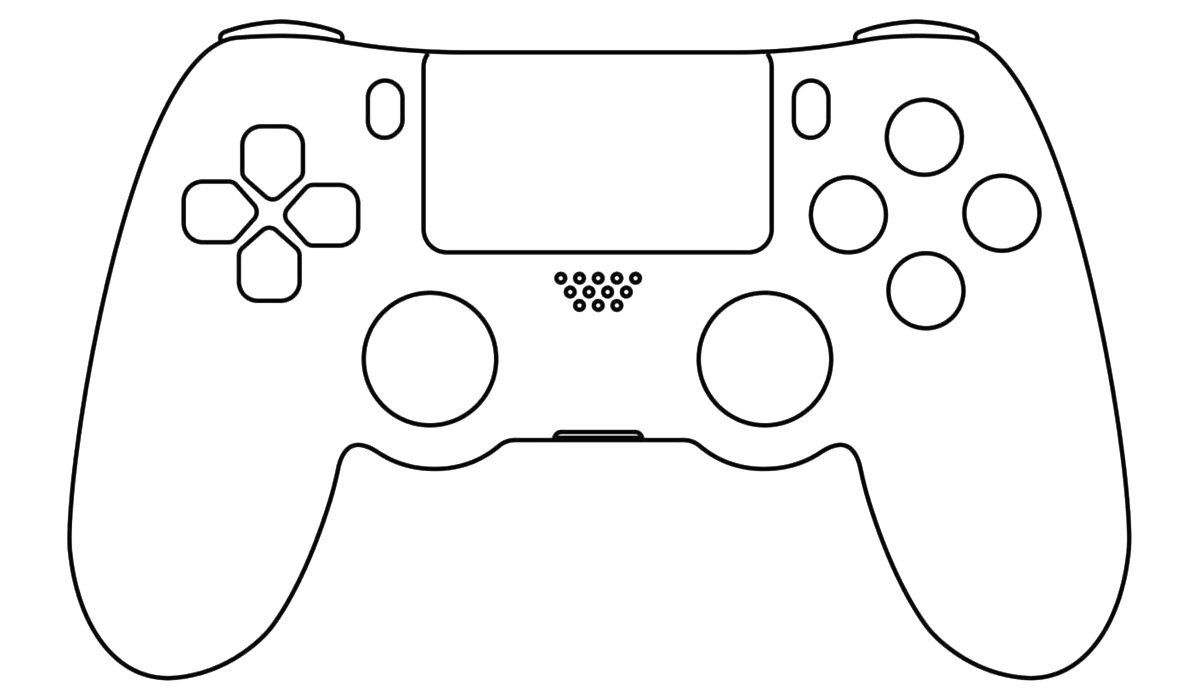
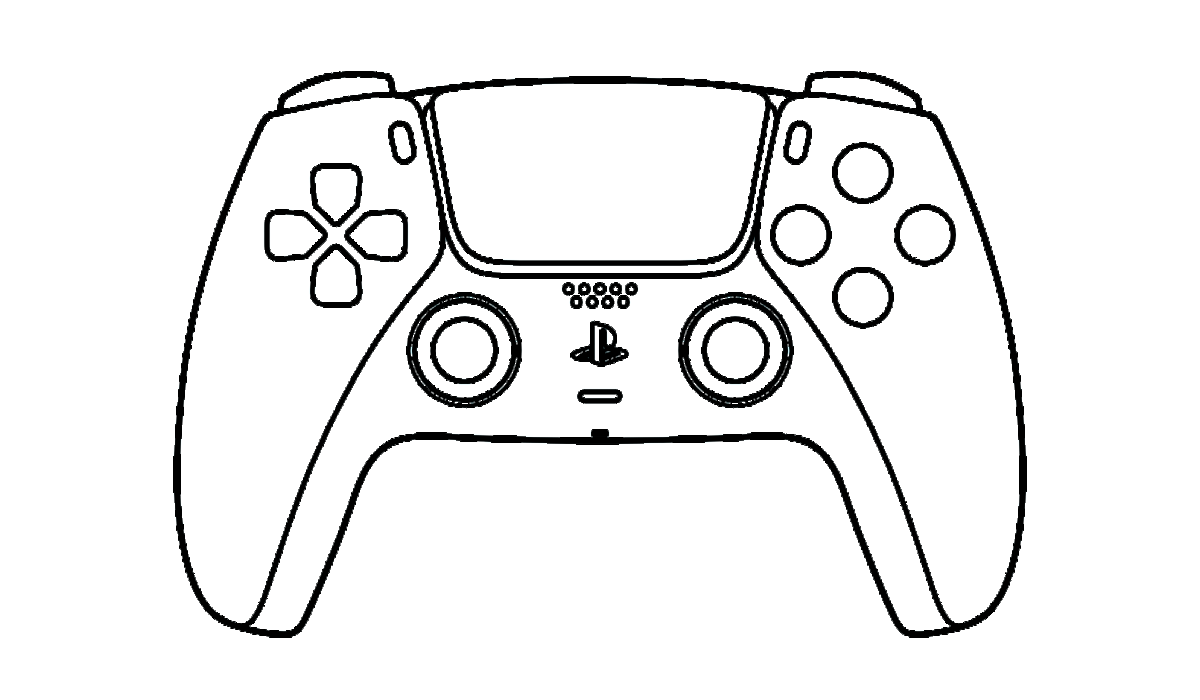
feat: auto enter gamepad option

diff --git a/src/App.vue b/src/App.vue
@@ -41,7 +41,9 @@ const rAFStop =
   window.webkitCancelAnimationFrame ||
   window.cancelAnimationFrame
 const gpType = ref('Xbox')
+const autoEnterGamepad = ref(true)
 provide('gpType', gpType)
+provide('autoEnterGamepad', autoEnterGamepad)
 
 const hScale = ref(window.innerWidth / 1200)
 const vScale = ref(window.innerHeight / 700)
@@ -67,6 +69,7 @@ const waitMapInput = () => {
   const gp = gamepads[0]
 
   if (!gp) {
+    rAF(waitMapInput)
     return
   }
 
@@ -75,7 +78,11 @@ const waitMapInput = () => {
     if (!inThrottle) {
       inThrottle = true
       setTimeout(() => {
-        enterGamepad()
+        enterGamepad(
+          gp.id.startsWith('DualSense') || gp.id.startsWith('DualShock')
+            ? 'PS'
+            : 'Xbox',
+        )
         inThrottle = false
       }, 300)
     }
@@ -107,33 +114,32 @@ const leaveGamepad = () => {
 
 provide('leaveGamepad', leaveGamepad)
 
-onMounted(() => {
-  window.store.get('colorTheme').then((theme: number) => {
-    if (!theme) {
-      window.store.set('colorTheme', 2, false)
-    } else {
-      colorTheme.value = theme
-    }
+onMounted(async () => {
+  let theme = await window.store.get('colorTheme')
+  if (!theme) {
+    window.store.set('colorTheme', 2, false)
+  } else {
+    colorTheme.value = theme
+  }
 
-    if (
-      colorTheme.value == 3 ||
-      (colorTheme.value == 2 && darkModePreference.matches)
-    ) {
-      document.body.classList.add('dark')
-    } else {
-      document.body.classList.remove('dark')
-    }
+  if (
+    colorTheme.value == 3 ||
+    (colorTheme.value == 2 && darkModePreference.matches)
+  ) {
+    document.body.classList.add('dark')
+  } else {
+    document.body.classList.remove('dark')
+  }
 
-    if (colorTheme.value == 2) {
-      darkModePreference.addEventListener('change', e => {
-        if (e.matches) {
-          document.body.classList.add('dark')
-        } else {
-          document.body.classList.remove('dark')
-        }
-      })
-    }
-  })
+  if (colorTheme.value == 2) {
+    darkModePreference.addEventListener('change', e => {
+      if (e.matches) {
+        document.body.classList.add('dark')
+      } else {
+        document.body.classList.remove('dark')
+      }
+    })
+  }
 
   window.github
     .getLatestRelease()
@@ -187,12 +193,35 @@ onMounted(() => {
       console.error(err)
     })
 
-  window.store.get('dialogStyle').then((style: DialogStyle) => {
-    if (!style) {
-      window.store.set('dialogStyle', 'gs', false)
+  let style = await window.store.get('dialogStyle')
+  if (!style) {
+    window.store.set('dialogStyle', 'gs', false)
+  }
+  dialogStyle.value = style
+
+  let autoEnter = await window.store.get('autoEnterGamepad')
+  console.log(autoEnter)
+  if (autoEnter == undefined || autoEnter) {
+    autoEnterGamepad.value = true
+    const gamepads = navigator.getGamepads()
+    for (let i = 0; i < gamepads.length; i++) {
+      const gp = gamepads[i]
+      if (gp) {
+        console.log(gp.id)
+        enterGamepad(
+          gp.id.startsWith('DualSense') || gp.id.startsWith('DualShock')
+            ? 'PS'
+            : 'Xbox',
+        )
+        break
+      }
     }
-    dialogStyle.value = style
-  })
+    window.store.set('autoEnterGamepad', true, false)
+  } else {
+    autoEnterGamepad.value = false
+    console.log('raf')
+    rAF(waitMapInput)
+  }
 
   fetch('../package.json')
     .then(response => response.json())
@@ -202,18 +231,15 @@ onMounted(() => {
 
   window.visualViewport?.addEventListener('resize', cardResizeCb)
 
-  const gamepads = navigator.getGamepads()
-  for (let i = 0; i < gamepads.length; i++) {
-    const gp = gamepads[i]
-    if (gp) {
-      enterGamepad(gp.id.startsWith('DualSense') ? 'PS' : 'Xbox')
-      break
-    }
-  }
-
   window.addEventListener('gamepadconnected', e => {
+    if (!autoEnterGamepad.value) return
+    console.log('connected')
     const gp = (e as GamepadEvent).gamepad
-    enterGamepad(gp.id.startsWith('DualSense') ? 'PS' : 'Xbox')
+    enterGamepad(
+      gp.id.startsWith('DualSense') || gp.id.startsWith('DualShock')
+        ? 'PS'
+        : 'Xbox',
+    )
   })
   window.addEventListener('gamepaddisconnected', leaveGamepad)
 })

diff --git a/src/pages/GamepadPage/GamepadPage.vue b/src/pages/GamepadPage/GamepadPage.vue
@@ -29,8 +29,6 @@ const importedGames = ref<GamePath[]>([])
 const showTooltip = ref(false)
 
 const bgPath = ref('')
-// const autoEnterGamepad = ref(true)
-// const showToolbar = ref(true)
 
 const selectedGameIndex = ref(0)
 const selectedSettingsCardIndex = ref(0)
@@ -39,6 +37,7 @@ const selectedSettingsItemIndex = ref(0)
 const hScale = inject<Ref<number>>('hScale')
 const vScale = inject<Ref<number>>('vScale')
 const leaveGamepad = inject<() => void>('leaveGamepad')
+const autoEnterGamepad = inject<Ref<boolean>>('autoEnterGamepad')
 
 const settingsItems: Ref<SettingsCard[]> = ref([
   {
@@ -58,7 +57,7 @@ const settingsItems: Ref<SettingsCard[]> = ref([
               display: 'inline',
             },
           }),
-          h('span', '键进入手柄模式。'),
+          h('span', '键进入手柄模式。若开启后没反应，请按一下手柄任意键。'),
         ]),
       },
       {
@@ -129,6 +128,10 @@ const onSettingsChange = (cardIdx: number, itemIdx: number) => {
   const item = settingsItems.value[cardIdx].items[itemIdx]
   window.store.set(item.key, !item.value, false)
   item.value = !item.value
+
+  if (item.key === 'autoEnterGamepad') {
+    autoEnterGamepad!.value = item.value
+  }
 }
 
 const onSettingsHover = (cardIdx: number, itemIdx: number) => {
@@ -424,6 +427,8 @@ onMounted(async () => {
     }
   }
 
+  autoEnterGamepad!.value = settingsItems.value[0].items[0].value
+
   for (const game of games) {
     const path = await window.store.get(`${game}GamePath`)
     const launcherPath = await window.store.get(`${game}LauncherPath`)
@@ -705,7 +710,7 @@ onMounted(async () => {
               <div class="settings-item-text mr-2">{{ item.text }}</div>
               <MyTooltip
                 v-if="item.tip"
-                max-width="200px"
+                max-width="300px"
                 middle
                 placement="bottom"
                 v-model="showTooltip"
